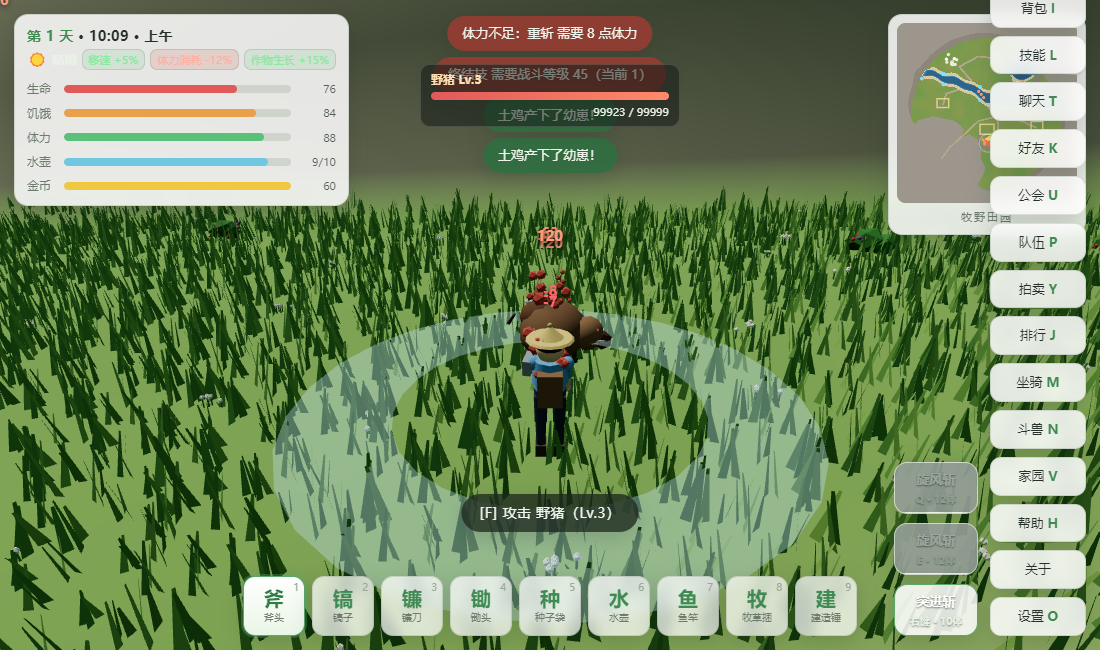
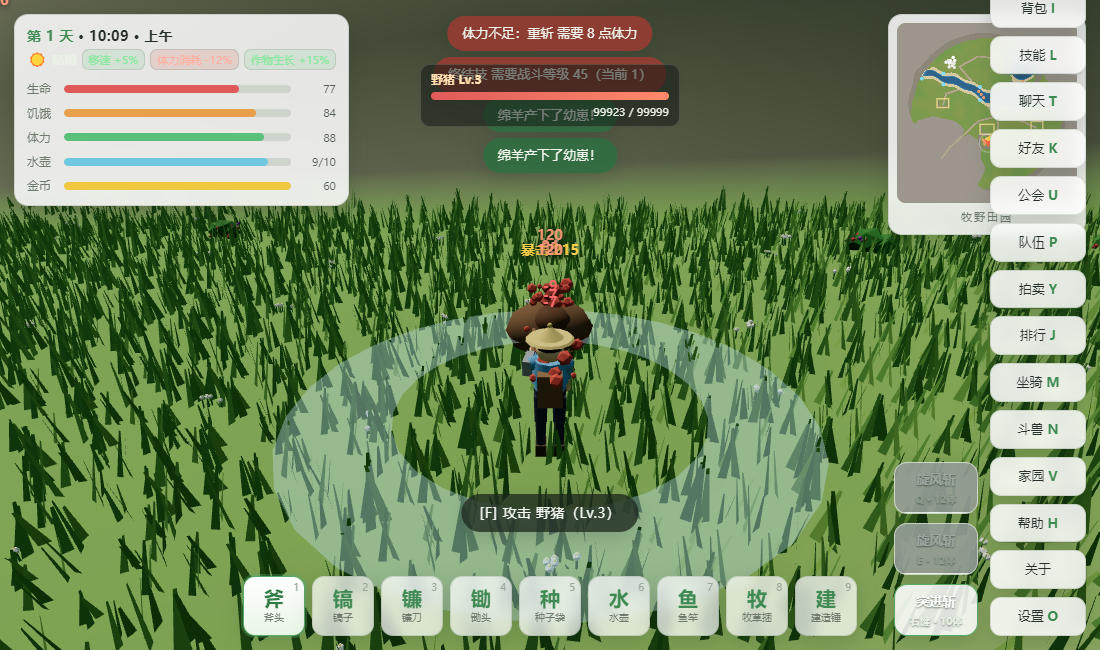
???? Open Farm:?? + ?? APK(????)

diff --git a/farm3d/js/interact-guard.js b/farm3d/js/interact-guard.js
@@ -1,0 +1,151 @@
+/* ==========================================================================
+ * 牧野田园 Open Farm  ·  交互隔离守卫
+ *
+ * 硬性要求：游戏区内的输入只属于游戏，浏览器的「默认动作」一律不让插手：
+ *   ① 禁止浏览器右键菜单（整容器）
+ *   ② 防止鼠标手势扩展干扰右键拖拽（SmartUp / crxMouse / 浏览器自带手势）
+ *   ③ 禁止文本选中与元素 / 图片拖拽
+ *   ④ 禁止中键自动滚动、禁止双击选中
+ *   ⑤ 禁止方向键 / 空格 / PageUp·Down 滚动页面
+ *   ⑥ 触摸端：touch-action:none（画布与 HUD）；里面要滚动的面板例外
+ *   ⑦ 布局隔离：无滚动条、画布铺满（见 index.html 的 html,body / #cv）
+ *   ⑧ 所有拦截集中在本文件，绑定在同一容器上，每处 preventDefault 都写明作用
+ *
+ * ponytail: 这里只做「隔离」，不掺任何游戏逻辑 —— 玩家的输入照旧走 player.js 的 Input。
+ *   本文件由 index.html 在 main.js 之前加载，安卓入口 m.html 由 prepare.js 从
+ *   index.html 派生，因此会被自动带上，两端行为一致。
+ *   容器说明：游戏铺满视口（body 即整页游戏），所以统一挂在 document 上监听，
+ *   统一用 target 做「输入框等例外」判定，不影响页面本身的原生行为。
+ * ========================================================================== */
+(function () {
+  'use strict';
+
+  /* ---------- 例外判定：输入框 / 可编辑区要保持浏览器原生行为 ---------- */
+  function inEditor(t) {
+    if (!t || !t.tagName) return false;
+    const tag = (t.tagName || '').toUpperCase();
+    return tag === 'INPUT' || tag === 'TEXTAREA' || tag === 'SELECT' || !!t.isContentEditable;
+  }
+
+  /* ---------------- ②-3 手势扩展提示条（可关，一局只弹一次） ---------------- */
+  const HINT = '检测到鼠标手势扩展可能影响游戏操作，建议在浏览器设置中为本页面关闭鼠标手势功能';
+  let hinted = false;
+  function showGestureHint() {
+    if (hinted) return;
+    hinted = true;
+    try { if (sessionStorage.getItem('farm3d_gesture_hint')) return; } catch (e) { }
+    try { sessionStorage.setItem('farm3d_gesture_hint', '1'); } catch (e) { }
+    const st = document.createElement('style');
+    st.textContent = `#guard-hint{position:fixed;left:50%;top:0;transform:translateX(-50%);z-index:300;
+      max-width:min(760px,94vw);padding:9px 14px;border-radius:0 0 12px 12px;
+      background:rgba(40,30,26,.92);color:#ffe9c8;font-size:12.5px;line-height:1.5;
+      box-shadow:0 8px 24px rgba(10,25,15,.4);cursor:pointer}
+      #guard-hint b{margin-left:8px;color:#ffb98a;font-weight:700}`;
+    document.head.appendChild(st);
+    const d = document.createElement('div');
+    d.id = 'guard-hint';
+    d.innerHTML = HINT + ' <b>✕</b>';
+    d.title = '点击关闭';
+    d.addEventListener('contextmenu', e => e.preventDefault());
+    d.addEventListener('pointerdown', e => { e.preventDefault(); d.remove(); });
+    document.body.appendChild(d);
+    if (window.FARM && window.FARM.UI && window.FARM.UI.toast) window.FARM.UI.toast(HINT, 'bad');
+    setTimeout(() => { if (d.parentNode) d.remove(); }, 15000);
+  }
+
+  /* ---------------- ① 禁止浏览器右键菜单 ----------------
+     地图上、道具上、UI 任意位置都不许弹系统菜单；游戏要用右键时一律走自绘菜单
+     （ ui2.js 的好友/队伍右键菜单就是自绘的，已在各自 handler 里 preventDefault） */
+  addEventListener('contextmenu', e => { e.preventDefault(); }, false);
+
+  /* ---------------- ② 接管右键 / ④ 禁止中键：按下即拦截 ---------------- */
+  let rmbDown = false, seenMove = 0, watchdog = 0;
+  addEventListener('mousedown', e => {
+    /* 右键：阻止浏览器菜单与「鼠标手势扩展」在右键拖动时画出轨迹或触发
+       后退 / 关闭标签页 / 刷新 —— 右键拖动全程交给游戏处理（转视角） */
+    if (e.button === 2) {
+      e.preventDefault();
+      rmbDown = true; seenMove = 0;
+      clearTimeout(watchdog);
+      /* ②-3 兜底侦测：按下右键后 2.4 秒内既没收到 mousemove 也没收到 mouseup，
+         说明事件很可能被浏览器层的手势扩展整段吞掉（游戏内右键拖动被中断），提示玩家 */
+      watchdog = setTimeout(() => {
+        if (rmbDown && seenMove < 2) showGestureHint();
+        watchdog = 0;
+      }, 2400);
+    }
+    /* 中键：阻止 Chrome / Firefox 的自动滚动（那个上下箭头八方向滚屏） */
+    if (e.button === 1) e.preventDefault();
+  }, false);
+
+  /* 右键拖动期间持续吃掉默认动作（选中 / 原生拖拽），保证视角拖动顺滑 */
+  addEventListener('mousemove', e => {
+    if (!rmbDown) return;
+    seenMove++;
+    clearTimeout(watchdog); watchdog = 0;
+    e.preventDefault();
+  }, false);
+
+  addEventListener('mouseup', e => {
+    if (e.button === 2) { rmbDown = false; clearTimeout(watchdog); watchdog = 0; }
+  }, false);
+  /* 拖到窗口外松手 / 切窗口时也要复位，否则会误判成「被吞掉」 */
+  addEventListener('blur', () => { rmbDown = false; clearTimeout(watchdog); watchdog = 0; });
+
+  /* ---------------- ③ 禁止文本选中 / 元素与图片拖拽 ---------------- */
+  addEventListener('selectstart', e => {
+    if (inEditor(e.target)) return;          /* 输入框里要能正常选字 */
+    e.preventDefault();                       /* 禁止拖拽鼠标时把 UI 文字当选户选走 */
+  }, false);
+  addEventListener('dragstart', e => {
+    if (inEditor(e.target)) return;
+    e.preventDefault();                       /* 禁止把图片 / 链接拖出去（会打断操作、也可能新建标签页） */
+  }, false);
+  addEventListener('drop', e => { if (!inEditor(e.target)) e.preventDefault(); }, false);
+  addEventListener('dragover', e => { if (!inEditor(e.target)) e.preventDefault(); }, false);
+
+  /* 所有 img / a 一律 draggable=false：聊天里发的图片长按拖动最容易被误触 */
+  function harden() {
+    const ns = document.querySelectorAll('img,a');
+    for (let i = 0; i < ns.length; i++) {
+      if (ns[i].getAttribute('draggable') !== 'false') ns[i].setAttribute('draggable', 'false');
+    }
+  }
+  harden();
+  addEventListener('DOMContentLoaded', harden);
+  /* 聊天图片是动态插入的，新节点进来顺手补上（节流，别每张图都跑一遍全表） */
+  if (window.MutationObserver) {
+    let t = 0;
+    new MutationObserver(() => { clearTimeout(t); t = setTimeout(harden, 300); })
+      .observe(document.body, { childList: true, subtree: true });
+  }
+
+  /* ---------------- ④ 禁止双击选中 / 双击放大 ---------------- */
+  addEventListener('dblclick', e => {
+    if (inEditor(e.target)) return;
+    e.preventDefault();                       /* 禁止双击选中文本或元素（也顺带禁掉双击缩放） */
+  }, false);
+
+  /* ---------------- ⑤ 禁止键盘滚动页面 ---------------- */
+  const SCROLL_KEYS = { ' ': 1, space: 1, arrowup: 1, arrowdown: 1, arrowleft: 1, arrowright: 1, pageup: 1, pagedown: 1, home: 1, end: 1 };
+  addEventListener('keydown', e => {
+    if (inEditor(e.target)) return;           /* 聊天输入框里空格 / 上下键必须是原生行为 */
+    const k = (e.key || '').toLowerCase();
+    if (SCROLL_KEYS[k]) e.preventDefault();   /* 页面本身不滚动，但键盘事件照旧送给游戏（ WASD/跳跃/快捷键不受影响） */
+  }, false);
+
+  /* ---------------- ⑥ 触摸端兜底：HUD 上的默认手势 ----------------
+     画布与触控层已在 CSS 里 touch-action:none；这里再挡一道双指手势事件（iOS Safari） */
+  addEventListener('gesturestart', e => e.preventDefault(), false);
+  addEventListener('gesturechange', e => e.preventDefault(), false);
+  addEventListener('gestureend', e => e.preventDefault(), false);
+  /* 安卓 / iOS 长按不弹系统「保存图片 / 复制」菜单 —— 交由 -webkit-touch-callout:none 与上面的 contextmenu 拦截共同保证 */
+  addEventListener('touchmove', e => {
+    if (inEditor(e.target)) return;
+    /* 面板内部要能滚动（背包 / 排行榜很长），所以只在非滚动容器里拦默认手势 */
+    if (!e.target.closest || !e.target.closest('.pbody,.cw-body,.mmwrap')) e.preventDefault();
+  }, { passive: false });
+
+  window.__GUARD_READY = true;
+  window.__GUARD_HARDEN = harden;   /* 给测试与后续动态 UI 用：同步把新插入的 img/a 置为不可拖 */
+})();

diff --git a/farm3d/_e2e.js b/farm3d/_e2e.js
@@ -1790,6 +1790,8 @@ fs.writeFileSync(TMP_PIC, Buffer.from(
 
   const sellFace = await page.evaluate(() => {
     const F = window.FARM;
+    /* ponytail: 冶炼/制作是随时间推进的，铁锭数量会浮动 —— 先钉死成 6，断言才有意义 */
+    F.Game.inv.iron_ingot = 6;
     F.UI2.panelBlackMarket('face');
     const c0 = F.Game.coins;
     const rows = document.querySelectorAll('#panel .friends')[2].querySelectorAll('.frow');
@@ -1910,6 +1912,75 @@ fs.writeFileSync(TMP_PIC, Buffer.from(
   console.log('   跟随 =', JSON.stringify({ on: +dOn.toFixed(2), off: +dOff.toFixed(2) }));
   ok('镜头自动跟随：横移 3 秒相机跟转（>1.2 rad）；关掉后不动（<0.1 rad）',
     Math.abs(dOn) > 1.2 && Math.abs(dOff) < 0.1);
+
+  /* 10. 交互隔离：右键菜单 / 鼠标手势入口 / 拖拽选中 / 中键 / 双击 / 键盘滚页 全被接管，
+          且输入框里的原生行为不被误伤 */
+  const guard = await page.evaluate(() => {
+    document.getElementById('guard-hint') && document.getElementById('guard-hint').remove();
+    const cv = document.getElementById('cv');
+    const fire = (type, Ctor, opts) => {
+      const e = new Ctor(type, Object.assign({ bubbles: true, cancelable: true, view: window }, opts));
+      cv.dispatchEvent(e);
+      return e.defaultPrevented;
+    };
+    const keyOn = (k, target) => {
+      const e = new KeyboardEvent('keydown', { key: k, bubbles: true, cancelable: true });
+      (target || dispatchEvent) && (target ? target.dispatchEvent(e) : dispatchEvent(e));
+      return e.defaultPrevented;
+    };
+    const inp = document.createElement('input');
+    document.body.appendChild(inp);
+    const res = {
+      ready: !!window.__GUARD_READY,
+      ctxMenu: fire('contextmenu', MouseEvent, { button: 2 }),
+      rmbDown: fire('mousedown', MouseEvent, { button: 2 }),
+      mmbDown: fire('mousedown', MouseEvent, { button: 1 }),
+      lmbDown: fire('mousedown', MouseEvent, { button: 0 }),   /* 左键交给游戏，不拦 */
+      select: fire('selectstart', Event, {}),
+      drag: fire('dragstart', Event, {}),
+      dbl: fire('dblclick', MouseEvent, {}),
+      space: keyOn(' ', null),
+      arrow: keyOn('ArrowDown', null),
+      page: keyOn('PageDown', null),
+      keyInInput: keyOn(' ', inp),          /* 输入框里必须放行 */
+      selInInput: (() => { const e = new Event('selectstart', { bubbles: true, cancelable: true }); inp.dispatchEvent(e); return e.defaultPrevented; })(),
+      imgNoDrag: (() => {
+        const im = document.createElement('img'); document.body.appendChild(im);
+        window.__GUARD_HARDEN();                       /* 同步补一次，不依赖 MutationObserver 的防抖 */
+        const v = im.getAttribute('draggable'); im.remove(); return v;
+      })(),
+      _tail: fire('mouseup', MouseEvent, { button: 2 }),   /* 复位右键状态：别让看门狗把测试误判成「事件被吞」 */
+      noScrollBar: document.documentElement.scrollHeight <= window.innerHeight + 1 &&
+        getComputedStyle(document.body).overflow === 'hidden',
+      cvTouch: getComputedStyle(cv).touchAction,
+    };
+    inp.remove();
+    return res;
+  });
+  console.log('   隔离 =', JSON.stringify(guard));
+  ok('交互隔离：右键菜单/右键拖拽/中键/双击/拖拽选中被拦截', guard.ready && guard.ctxMenu && guard.rmbDown &&
+    guard.mmbDown && guard.dbl && guard.select && guard.drag);
+  ok('交互隔离：左键不拦 · 输入框原生行为保留 · 键盘滚页被拦', !guard.lmbDown && !guard.keyInInput &&
+    !guard.selInInput && guard.space && guard.arrow && guard.page);
+  ok('布局隔离：无滚动条 + 画布 touch-action:none · 图片不可拖拽',
+    guard.noScrollBar && guard.cvTouch === 'none' && guard.imgNoDrag === 'false');
+
+  /* 11. 手势扩展兜底：模拟「右键按下后事件被浏览器层吞掉」（无 mousemove 也无 mouseup），
+          应弹出可关闭的友好提示 */
+  await page.evaluate(() => {
+    const old = document.getElementById('guard-hint'); if (old) old.remove();
+    document.getElementById('cv').dispatchEvent(
+      new MouseEvent('mousedown', { bubbles: true, cancelable: true, view: window, button: 2 }));
+  });
+  await page.waitForTimeout(3000);
+  const hint = await page.evaluate(() => {
+    const d = document.getElementById('guard-hint');
+    return d ? d.textContent : '';
+  });
+  await page.screenshot({ path: path.join(__dirname, 'production', 'qa', 'evidence', 'pc-gesture-hint.png') });
+  ok('手势扩展兜底：右键拖动被吞时弹出「建议关闭鼠标手势」的提示', /鼠标手势扩展/.test(hint));
+  console.log('   兜底提示 =', JSON.stringify(hint.slice(0, 40)));
+  await page.evaluate(() => { const d = document.getElementById('guard-hint'); if (d) d.remove(); });
 
   console.log(errs.length ? '\n运行时错误:\n' + errs.slice(0, 5).join('\n') : '\n无 JS 错误');
   await browser.close();

diff --git a/farm3d/index.html b/farm3d/index.html
@@ -18,16 +18,23 @@
 html,body{width:100%;height:100%;overflow:hidden;background:#cfe6f2}
 body{
   font:14px/1.6 "PingFang SC","Microsoft YaHei","Hiragino Sans GB","Source Han Sans SC",system-ui,sans-serif;
-  color:var(--ink); user-select:none; -webkit-user-select:none;
+  color:var(--ink); user-select:none; -webkit-user-select:none; -moz-user-select:none; -ms-user-select:none;
 }
-#cv{position:absolute;inset:0;display:block;width:100%;height:100%}
+/* 例外：输入框 / 文本域必须能正常选字（聊天、改名等），不能被上面的 none 连坐 */
+input,textarea,select{user-select:text;-webkit-user-select:text;-moz-user-select:text}
+/* 图片与链接一律不可拖、长按不弹系统菜单（图片多由聊天的截图 / 贴图插入） */
+img,a{-webkit-user-drag:none;user-drag:none;-webkit-touch-callout:none}
+#cv{position:absolute;inset:0;display:block;width:100%;height:100%;touch-action:none}
 /* 进入世界后自动藏起鼠标指针（Esc 取回）；只作用在画布上 ——
    按钮 / 面板本身是 cursor:pointer，鼠标移过去会自然显回箭头 */
 html.cur-none #cv{cursor:none}
 /* 安全区：刘海屏 / 灵动岛 / Home 条 / 挖孔屏 —— absolute 子元素随 padding 整体内缩 */
 #ui,#panel{padding:env(safe-area-inset-top) env(safe-area-inset-right) env(safe-area-inset-bottom) env(safe-area-inset-left)}
-#ui{position:absolute;inset:0;pointer-events:none;z-index:5}
+#ui{position:absolute;inset:0;pointer-events:none;z-index:5;touch-action:none}
 #ui button,#ui input,#ui .card,#ui .item,#ui .slot,#ui .seed,#ui .panel,#ui .mmwrap{pointer-events:auto}
+/* 触摸端：画布与 HUD 不交给浏览器做默认手势（ scroll 的容器例外：
+   手机上 #corner 按钮列是可滚动的，得放行 pan-y；面板 .pbody 在 #panel 里不受影响） */
+html.mobile #corner{touch-action:pan-y}
 
 /* ---------- 顶部左：时钟 / 状态 ---------- */
 #topbar{position:absolute;left:14px;top:14px;min-width:236px;
@@ -556,6 +563,8 @@ html.cur-none #cv{cursor:none}
 <script src="js/ability.js"></script>
 <script src="js/ui.js"></script>
 <script src="js/ui2.js"></script>
+<!-- 交互隔离守卫：拦截右键菜单 / 鼠标手势 / 拖拽选中 / 中键 / 键盘滚页，须早于游戏逻辑 -->
+<script src="js/interact-guard.js"></script>
 <script src="js/main.js"></script>
 </body>
 </html>
